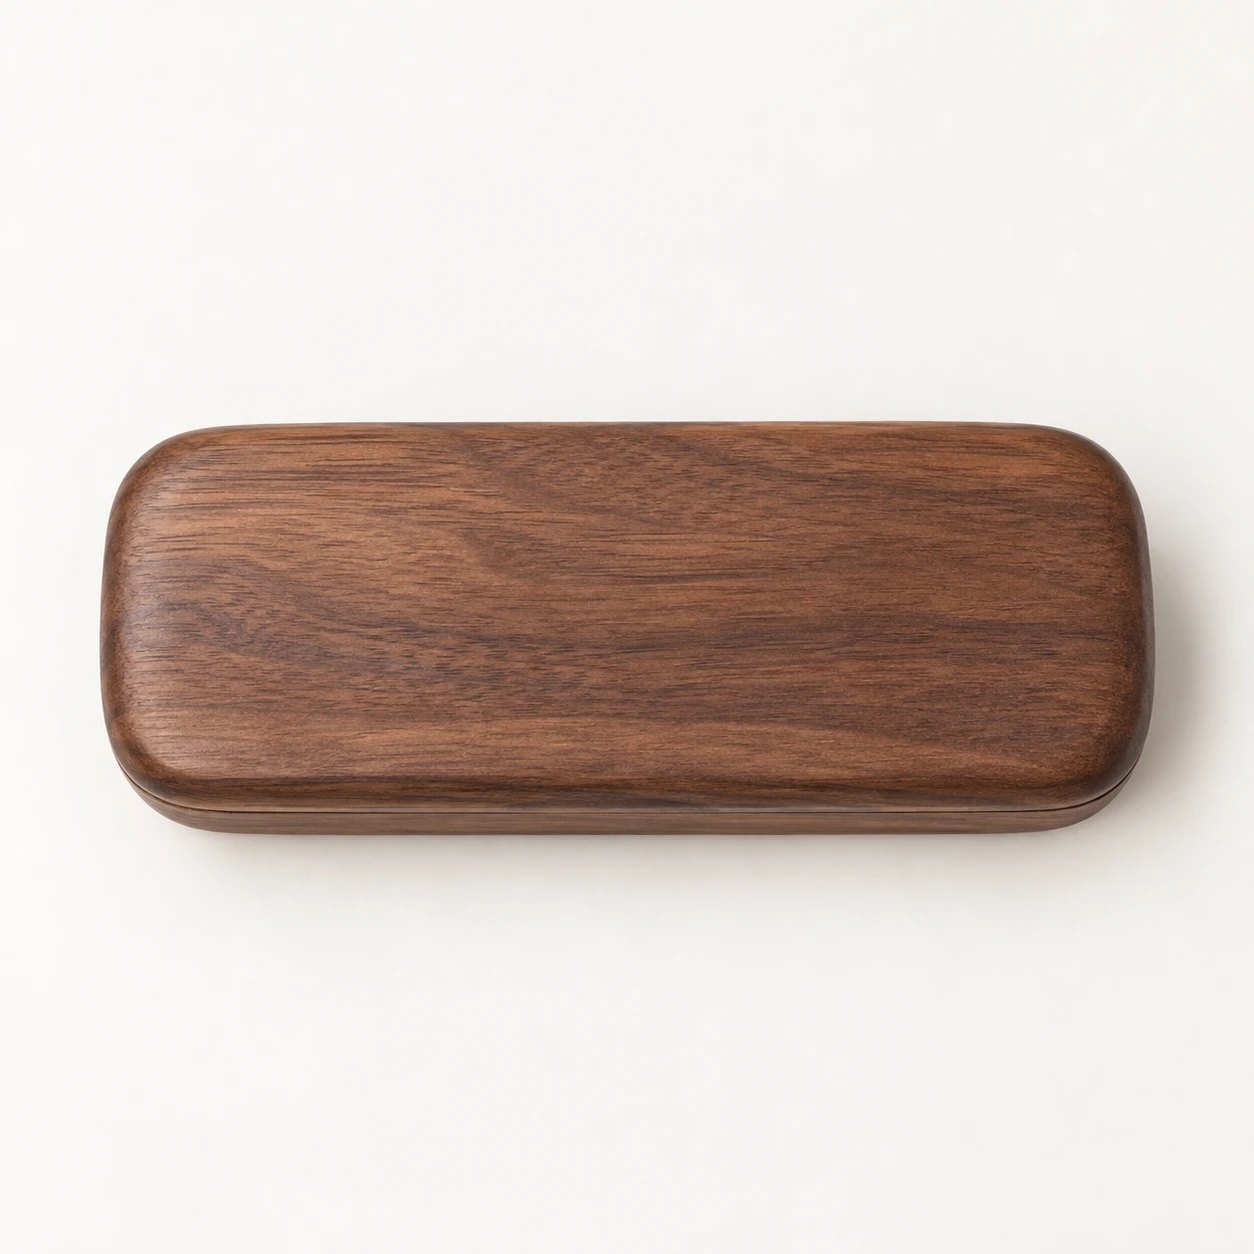
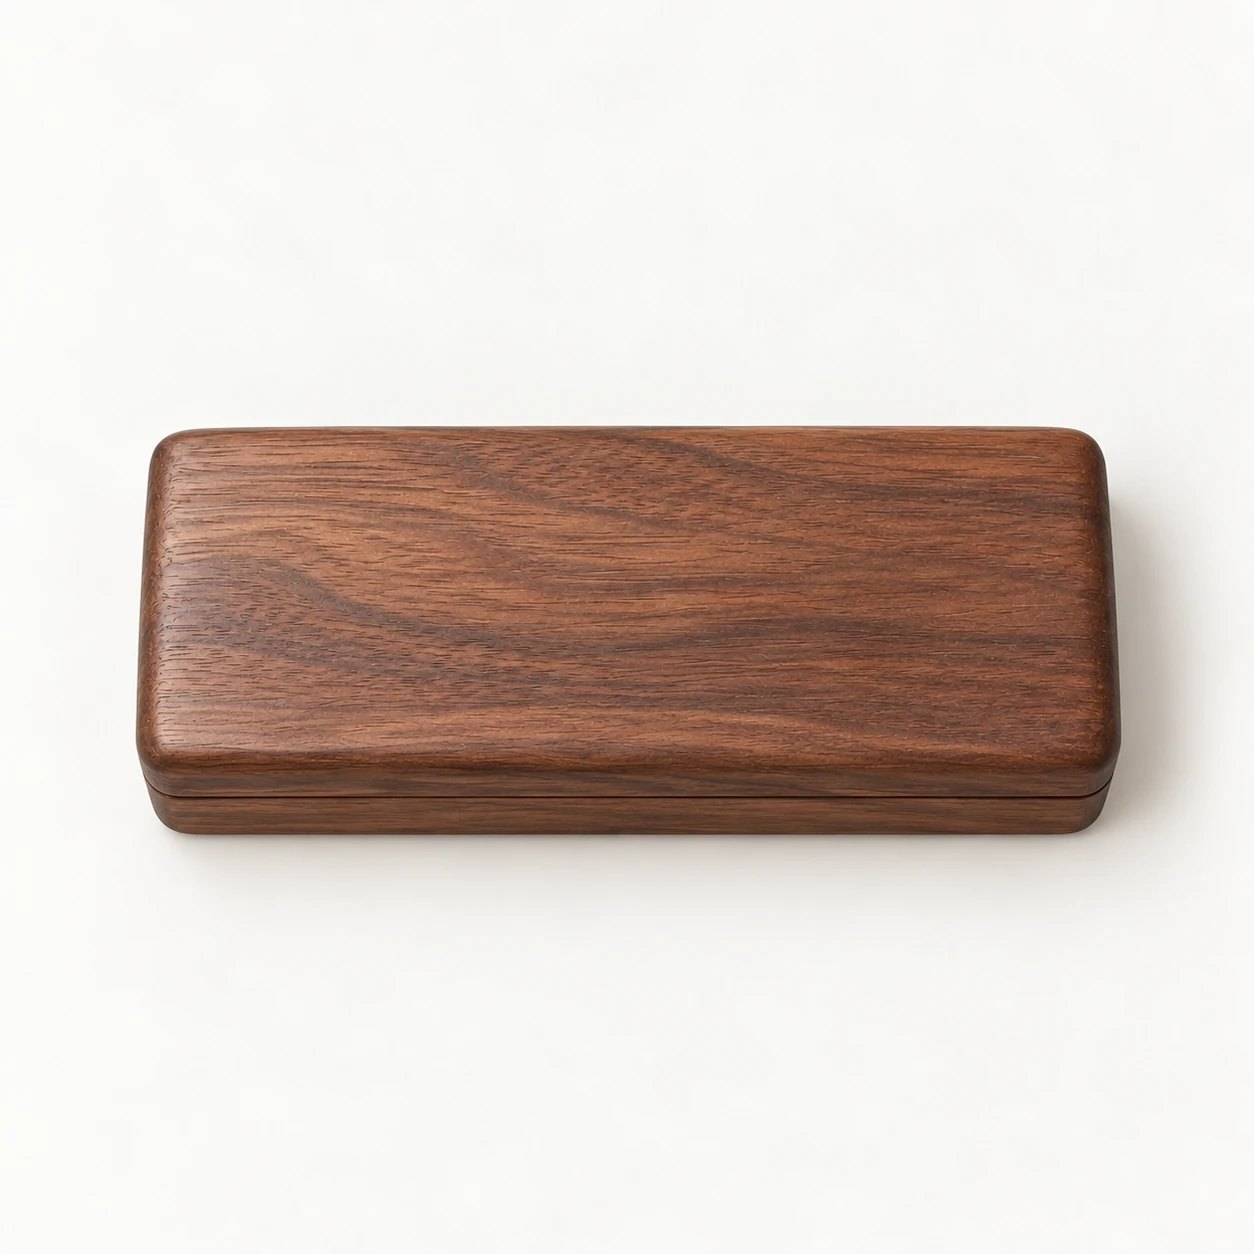
眼鏡盒底圖改用方形盒蓋那張正拍照,重量可雕刻範圍
盒蓋頂面 x 140~1116、y 426~770(下面是前緣與盒身,接縫在 y≈796)
雕刻範圍:頂面寬 78%、高 64% 置中 → left 19.7% top 38.9% width 60.7% height 17.6%(約 3.5:1)
CSS 與 case.js 的 PLATE 同步,頁面實測一致。

Changed region(s): [[0.0622, 0.311, 0.9952, 0.6842]]

diff --git a/case.html b/case.html
@@ -43,7 +43,7 @@ j=d.createElement(s),dl=l!='dataLayer'?'&l='+l:'';j.async=true;j.src=
   <link rel="stylesheet" href="css/app-mode.css?v=20260920-init">
   <link rel="stylesheet" href="css/upload-design.css?v=20260825-nozoom">
   <link rel="stylesheet" href="css/cloth.css?v=20261003-walllayer">
-  <link rel="stylesheet" href="css/case.css?v=20261003-walnut">
+  <link rel="stylesheet" href="css/case.css?v=20261003-walnut2">
 
   <link rel="icon" type="image/svg+xml" href="favicon.svg">
   <link rel="apple-touch-icon" href="favicon.svg">
@@ -98,7 +98,7 @@ height="0" width="0" style="display:none;visibility:hidden"></iframe></noscript>
     <!-- ===== 左:預覽 ===== -->
     <div class="cl-left">
       <div class="cl-stage" id="csStage">
-        <img class="cl-base" id="csBase" src="images/case-base.jpg?v=20261003-walnut"
+        <img class="cl-base" id="csBase" src="images/case-base.jpg?v=20261003-walnut2"
              alt="客製眼鏡盒" draggable="false">
 
         <!-- 可雕刻範圍。底圖是【正上方拍的】素面盒,所以這個框是正的
@@ -202,7 +202,7 @@ height="0" width="0" style="display:none;visibility:hidden"></iframe></noscript>
         <p class="cl-card-title">選盒款</p>
         <div class="cs-boxes" id="csBoxes">
           <button type="button" class="cs-box on" data-box="walnut">
-            <span class="cs-box-img"><img src="images/case-base.jpg?v=20261003-walnut" alt="胡桃木紋盒"></span>
+            <span class="cs-box-img"><img src="images/case-base.jpg?v=20261003-walnut2" alt="胡桃木紋盒"></span>
             <span class="cs-box-name">胡桃木紋盒</span>
           </button>
           <!-- ⚠ 只有一款是【現況】不是版面沒做完。其他盒款的照片還沒拍,
@@ -335,7 +335,7 @@ height="0" width="0" style="display:none;visibility:hidden"></iframe></noscript>
 <script src="js/api/api-core.js?v=20260517-1800"></script>
 <script src="js/api/api-store.js?v=20260517-1800"></script>
 <script src="js/store-data.js?v=20260814-kaoying"></script>
-<script src="js/case.js?v=20261003-walnut"></script>
+<script src="js/case.js?v=20261003-walnut2"></script>
 <script src="js/cloth-wall.js?v=20261002-casewall"></script>
 </body>
 </html>

diff --git a/css/case.css b/css/case.css
@@ -72,25 +72,26 @@
    2026-10-03 換成正式商品(商城 2881「木紋眼鏡盒」,胡桃木)的正拍照,
    原本的米白絨布盒與實際販售的商品長得不一樣。
 
-   量法:掃描亮度找盒蓋的邊。背景約 249、木頭 < 160。
-   ⚠ 下緣要用「接縫」不是「深色的最下面」:照片是從正上方略偏前拍的,
-     盒蓋底下還露出一條盒身側面(1254 像素中的 810~837),
-     中央剖面在 y≈810 有一條較亮的接縫,那才是盒蓋的下緣。量到的盒蓋:
+   量法:掃描亮度找盒蓋的邊。背景約 250、木頭 < 160。
+   ⚠ 下緣不能用「深色的最下面」:照片是從正上方略偏前拍的,
+     盒蓋頂面(到 y≈770)下面還露出盒蓋的前緣與盒身側面,
+     中央剖面在 y≈796 有一條最暗的線,那是盒蓋與盒身的接縫。
+     雕刻只能刻在頂面,所以用 770。量到的盒蓋頂面(1254 × 1254):
 
-       x  100 ~ 1166 px(8.0% ~ 93.0%)   y  421 ~ 810 px(33.6% ~ 64.6%)
-       中心 50.5% / 49.1%   寬 85.0%   高 31.0%
+       x  140 ~ 1116 px(11.2% ~ 89.0%)   y  426 ~ 770 px(34.0% ~ 61.4%)
+       中心 50.1% / 47.7%   寬 77.8%   高 27.4%
 
-   雕刻範圍取盒蓋寬的 72%、高的 60%,置中 —— 四周留邊是因為盒蓋是
-   大圓角而且邊緣會向下收,太靠邊的圖雷射打不到。
+   雕刻範圍取頂面寬的 78%、高的 64%,置中(約 3.5 : 1)——
+   四周留邊是因為盒蓋是圓角而且邊緣會向下收,太靠邊的圖雷射打不到。
    ⚠ 這是從照片推的;師傅給了實際可雕刻的 mm 之後,要照那個長寬比再調一次。
    ============================================================= */
 
 .cs-plate {
   position: absolute;
-  left: 19.9%;
-  top: 39.8%;
-  width: 61.2%;
-  height: 18.6%;
+  left: 19.7%;
+  top: 38.9%;
+  width: 60.7%;
+  height: 17.6%;
   border: 1px dashed rgba(80, 66, 45, 0.35);
   border-radius: 6px;
   /* 拖曳事件掛在這一層(座標基準就是它),所以不能設 pointer-events:none */

diff --git a/js/case.js b/js/case.js
@@ -865,7 +865,7 @@
      ⚠ 兩邊不一致的話,客人在畫面上擺好的位置,合成圖上會偏掉 ——
        而師傅與商城後台看到的都是合成圖。
      改 CSS 那四個數字時,這裡要一起改。 */
-  var PLATE = { left: 0.199, top: 0.398, width: 0.612, height: 0.186 };
+  var PLATE = { left: 0.197, top: 0.389, width: 0.607, height: 0.176 };
 
   function buildPreviewBlob() {
     var S = CHECKOUT.PREVIEW_SIZE;
